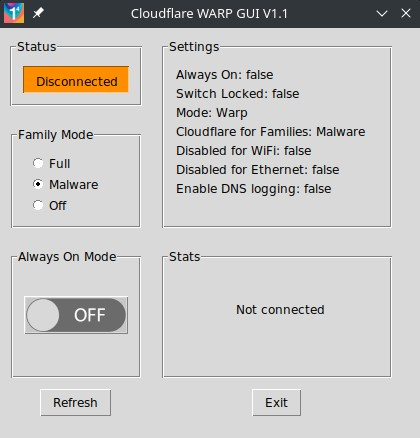
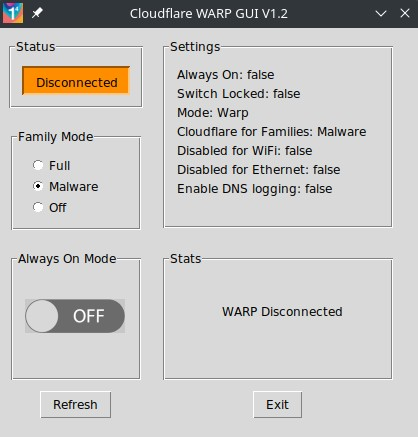
v1.2 see README notes

diff --git a/warp-cli-gui.py b/warp-cli-gui.py
@@ -5,8 +5,8 @@ Description: Python GUI program that will interact with the Linux command line t
 
 Prequisites:
 - Linux OS (tested on Manjaro Linux)
-- Python 3 with pillow library
-- warp-svc running as daemon
+- Python 3 with pillow library (if not running binary)
+- warp-svc running as system daemon (see README notes)
 - warp-cli for Linux installed (instructions at https://developers.cloudflare.com/warp-client/get-started/linux)
 
 License: GPL-3.0
@@ -33,9 +33,10 @@ Versions:
 - V0.5 31 Dec 2021 Cloudflare Warp logo added, connect status button colours changed (thanks to my wife Chantel for helping with this), family mode radio button defaults to existing setting, stats auto refresh every 2 secs after Refresh button pressed
 - V1.0 31 Dec 2021 First stable version with just README file updated
 - V1.1 1 Jan 2022 Tidied up button press color, optimized some code, added Always On toggle setting
+- V1.2 2 Jan 2022 Removed border around toggle button, auto-refresh of stats every 2 secs when connected, optimized function naming, checks lost network connection
+
 
 TODO: - Option to switch WARP modes
-TODO: - Testing auto-refresh with 2 sec interval - optional refresh in seconds
 TODO: - Maybe graphs where relevant eg. latency
 TODO: - Can it show connect status on panel when minimized? Qt can.
 """
@@ -50,11 +51,10 @@ from tkinter import messagebox
 import sys
 # To execute external CLI commands to read status and change settings
 import subprocess
-import time
 
 
 # Set global variable to test during execution
-version = "V1.1"
+version = "V1.2"
 connected = True
 update_interval = 2000 # Milliseconds
 
@@ -122,11 +122,11 @@ def family_clicked(value):
     # Execute the set-families-mode change using value brought over from radio button press
     # Todo = test result for valid execution
     result = (subprocess.run(['warp-cli', 'set-families-mode', value], capture_output=True, text=True)).stdout
-    # Refresh settings frame as value may have changed
-    refresh_settings()
+    # Refresh settings frame as value may have changed with click
+    get_settings()
 
 
-def update_conn_status():
+def get_conn_status():
     # Check if warp-cli connection is connected by running status command, and format returned text, and set connect status variable
     # Use globally defined connected variable
     global connected
@@ -135,31 +135,34 @@ def update_conn_status():
     # Extract part where "b'Status update: Connected'"" or "b'Status update: Connected'"" should appear and set warp_connected to that
     # "b'Success'" or "b'Status update: Connecting'" are also possible, but if returned, then retest again by recalling function
     warp_connected = str(warp_connected[1])
-    
     if warp_connected == "b'Status update: Connected'":
         connected = True
     elif warp_connected == "b'Status update: Disconnected'":
         connected = False
+    elif warp_connected == "b'Status update: No network'":
+        connected = False
+        messagebox.showerror("Error", "No Network Connection!")
+        sys.exit()
     else:
         # Means any of the two sought status' were not returned yet, so retry
-        update_conn_status()
+        get_conn_status()
 
     # Debug Condition to check extracted text
     #print("|" + warp_connected + "|")
 
 
-def connect_clicked():
+def toggle_connect():
     if connected:
         # Run command to disconnect and result should be 'Success' as result[0]
         result = (subprocess.run(['warp-cli', 'disconnect'], capture_output=True, text=True)).stdout
     else:
         # Run command to connect and result should be 'Success' as result[0]
         result = (subprocess.run(['warp-cli', 'connect'], capture_output=True, text=True)).stdout
-    # Now refresh
+    # Now check and fresh status
     refresh_all()
 
 
-def refresh_settings():
+def get_settings():
     global family_mode_status
     global always_connected
     # Clear any previous widgets displays before displaying new data
@@ -182,29 +185,22 @@ def refresh_settings():
     elif str(warp_settings_aon) == "b'Always On: true'":
         always_connected = True
     else:
-        # Pause 0.5 sec and retry as no valid option returned yet
-        time.sleep(0.5)
-        refresh_settings()
+        # Pause 500 msec and retry as no valid option returned yet
+        root.after(500, get_settings)
 
     # Define labels and display in frame for above settings
     warp_settings_aon_lbl = Label(frame_settings, text=warp_settings_aon)
     warp_settings_aon_lbl.grid(row=0, column=0, sticky=W)
-
     warp_settings_switch_lbl = Label(frame_settings, text=warp_settings_switch)
     warp_settings_switch_lbl.grid(row=1, column=0, sticky=W)
-
     warp_settings_mode_lbl = Label(frame_settings, text=warp_settings_mode)
     warp_settings_mode_lbl.grid(row=2, column=0, sticky=W)
-
     warp_settings_family_lbl = Label(frame_settings, text= warp_settings_family)
     warp_settings_family_lbl.grid(row=3, column=0, sticky=W)
-
     warp_settings_wifi_lbl = Label(frame_settings, text=warp_settings_wifi)
     warp_settings_wifi_lbl.grid(row=4, column=0, sticky=W)
-
     warp_settings_eth_lbl = Label(frame_settings, text=warp_settings_eth)
     warp_settings_eth_lbl.grid(row=5, column=0, sticky=W)
-
     warp_settings_dns_lbl = Label(frame_settings, text=warp_settings_dns)
     warp_settings_dns_lbl.grid(row=6, column=0, sticky=W)
 
@@ -218,18 +214,23 @@ def refresh_stats():
     if connected:
         # Check and read output of stats into a list, every line split into new list item, displayed in frame
         warp_stats = ((subprocess.run(['warp-cli', 'warp-stats'], capture_output=True)).stdout).splitlines()
-        warp_stats_time = warp_stats[1]
-        warp_stats_data = warp_stats[2]
-        warp_stats_latency = warp_stats[3]
-        warp_stats_loss = warp_stats[4]
-    
-        # Define labels and display in frame for above settings
-        warp_stats_time_lbl = Label(frame_stats, text=warp_stats_time).grid(row=0, column=0, sticky=W)
-        warp_stats_data_lbl = Label(frame_stats, text=warp_stats_data).grid(row=1, column=0, sticky=W)
-        warp_stats_latency_lbl = Label(frame_stats, text=warp_stats_latency).grid(row=2, column=0, sticky=W)
-        warp_stats_loss_lbl = Label(frame_stats, text=warp_stats_loss).grid(row=3, column=0, sticky=W)
+        # Check for lost network connection
+        if str(warp_stats[0]) != "b'Error: WARP is not connected.'":
+            warp_stats_time = warp_stats[1]
+            warp_stats_data = warp_stats[2]
+            warp_stats_latency = warp_stats[3]
+            warp_stats_loss = warp_stats[4]
+        
+            # Define labels and display in frame for above settings
+            warp_stats_time_lbl = Label(frame_stats, text=warp_stats_time).grid(row=0, column=0, sticky=W)
+            warp_stats_data_lbl = Label(frame_stats, text=warp_stats_data).grid(row=1, column=0, sticky=W)
+            warp_stats_latency_lbl = Label(frame_stats, text=warp_stats_latency).grid(row=2, column=0, sticky=W)
+            warp_stats_loss_lbl = Label(frame_stats, text=warp_stats_loss).grid(row=3, column=0, sticky=W)
+        else:
+            warp_stats_noconnect_lbl = Label(frame_stats, text="Network lost?").grid(padx=50, pady=25)
+            get_conn_status()
     else:
-        warp_stats_noconnect_lbl = Label(frame_stats, text="Not connected").grid(padx=60, pady=25)
+        warp_stats_noconnect_lbl = Label(frame_stats, text="WARP Disconnected").grid(padx=45, pady=25)
 
 def toggle_aon():
     global always_connected
@@ -239,33 +240,33 @@ def toggle_aon():
     else:
         # Run command to toggle to always connected on
         result = (subprocess.run(['warp-cli', 'enable-always-on'], capture_output=True, text=True)).stdout
-    refresh_settings()  # Will retrieve changed always_connected settings from CLI
-    display_aon()
+    refresh_all()
 
 def display_aon():
     global toggle_off, toggle_on
     global always_connected
     if always_connected:
         # ALWAYS CONNECTED toggle button to AON frame
-        always_conn_btn = Button(frame_aon, image = toggle_on, command=toggle_aon)
+        always_conn_btn = Button(frame_aon, image = toggle_on, command=toggle_aon, borderwidth=0, bg=root['bg'], activebackground=root['bg'])        
     else:
         # ALWAYS CONNECTED toggle button to AON frame
-        always_conn_btn = Button(frame_aon, image = toggle_off, command=toggle_aon)
+        always_conn_btn = Button(frame_aon, image = toggle_off, command=toggle_aon, borderwidth=0)
     always_conn_btn.grid(row=0, column=0, pady=20)
 
+
 def display_connect_btn():
-    # Add CONNECT BUTTON to Status frame with text description and colour
+    # Add CONNECT BUTTON to Status frame with text description and colours
     if connected:
-        myConnect_Btn = Button(frame_status, text=" Connected ", width=10, bg="#76a633", activebackground="#76a633", relief=RAISED, command=connect_clicked)
+        myConnect_Btn = Button(frame_status, text=" Connected ", width=10, bg="#76a633", activebackground="#76a633", borderwidth=2, relief=RAISED, command=toggle_connect)
     else:
-        myConnect_Btn = Button(frame_status, text="Disconnected", width=10, bg="#ff8d00", activebackground="#ff8d00", relief=SUNKEN, command=connect_clicked)
+        myConnect_Btn = Button(frame_status, text="Disconnected", width=10, bg="#ff8d00", activebackground="#ff8d00", borderwidth=2, relief=SUNKEN, command=toggle_connect)
     myConnect_Btn.grid(row=0, column=0)
 
 
 def refresh_all():
-    update_conn_status()
+    get_conn_status()
     display_connect_btn()
-    refresh_settings()
+    get_settings()
     refresh_stats()
     display_aon()
     # Start auto refresh stats function (only after refresh button pressed)
@@ -280,11 +281,12 @@ def auto_refresh_stats():
 
 
 # Main program starts here
-update_conn_status()
+get_conn_status()
 display_connect_btn()
-refresh_settings()
+get_settings()
 display_aon()
 refresh_stats()
+auto_refresh_stats()
 
 
 

diff --git a/README.md b/README.md
@@ -5,29 +5,34 @@
 
 ![Screenshot Disconnected](assets/screenshot_disconnected.jpg)
 
+![Screenshot Lost Network](assets/screenshot_nonetwork.jpg)
+
 [![Short Video](https://img.youtube.com/vi/MtlUrAmhWzI/0.jpg)](https://www.youtube.com/watch?v=MtlUrAmhWzI)
 
 ## Description
-<p>Python GUI program that will interact with the Linux command line to check status, and change basic settings, for Cloudflare WARP CLI.</p>
+<p>This is a Python GUI program that will interact with the Linux command line to check status, and change basic settings, for Cloudflare WARP CLI. The program does not store any data of its own, nor does it interfere or monitor the VPN in any way.</p>
+
+<p>When started the program will check all warp-cli status and settings, and display in the frames. Auto-updating of the stats will happen automatically every 2 seconds while warp-cli is connected. To prevent overtaxing system resources the program is not doing a full scan of everything, so if changes are made manually at the command line while it is running then press the refresh button to refresh the settings as well in the program. Changes made within the program will update everything accordingly though.</p>
+
+<p>While the program is refreshing stats it will check for WARP being disconnected, or the network disconnecting, and display relevant warnings.</p>
 
 ## Requirements and Execution
-- Linux OS (tested on Manjaro Linux)
-- warp-svc running as daemon by running either 'sudo systemctl start warp-svc' for once off, or 'sudo systemctl enable warp-svc' for boot time activation (should have been installed with warp-cli)
-- warp-cli for Linux installed, and the once-off registration done by running 'warp-cli register' (instructions at https://developers.cloudflare.com/warp-client/get-started/linux)
+- Linux OS (tested on Manjaro Linux but should work on other distros).
+- warp-svc running as a system daemon by the user executing either 'sudo systemctl start warp-svc' for once off, or 'sudo systemctl enable warp-svc' for boot time activation (should have been installed with warp-cli).
+- warp-cli for Linux installed, and the once-off registration done by the user running 'warp-cli register' (instructions at https://developers.cloudflare.com/warp-client/get-started/linux)
 - Two options to run this app:
   - Python 3 with pillow library, already installed: Copy the [warp-cli-gui.py, warp_logo.png, off.png, off.png] source files into a single folder, and execute with 'python warp-cli-gui.py'. For ease of use you can add this command, and the working directory, to a new menu item on Linux.
-  - As a Linux binary executable (no Python required): Download the binary release from Github into any directory location on your computer, ensure the warp-cli-gui file has execute permissions, then execute with './warp-cli-gui' from that directory.
+  - As a Linux binary executable (no Python required): Download the binary release files from Github into any directory location on your computer, ensure the warp-cli-gui file has execute permissions, then execute with './warp-cli-gui' from that directory.
 
 ## Functionality
 - Status button toggles connect / disconnect from WARP
 - Family mode can be toggled between Full, Malware, Off
 - Always On status can be toggled
 - Current WARP settings displayed, and refreshed if changed (or press refresh button)
-- Current WARP stats displayed and will refresh automatically every 2 seconds after the refresh button has been pressed
+- Current WARP stats displayed and will refresh automatically every 2 seconds
 
 ## Todo's on the Road Map
 - Option to switch WARP modes
-- Testing auto-refresh of stats frame with 2 sec interval - consider optional refresh in seconds or disable
 - Maybe graphs where relevant eg. latency
 - Can it show connect status on panel when minimized (Qt can)?
 
@@ -42,6 +47,7 @@ See my video about the initial creation of this app at https://youtu.be/hhPhiV0o
 - V0.5 31 Dec 2021 Cloudflare Warp logo added, connect status button colours changed (thanks to my wife Chantel for helping with this), family mode radio button defaults to existing setting, stats auto refresh every 2 secs after Refresh button pressed
 - V1.0 31 Dec 2021 First stable version with just README file updated. Binary for Linux added as a release.
 - V1.1 1 Jan 2022 Tidied up button press color, optimized some code, added Always On toggle setting
+- V1.2 2 Jan 2022 Removed border around toggle button, auto-refresh of stats every 2 secs when connected, optimized function naming, checks lost network connection
 
 ## License
 This software is available under the GPL-3.0. You should have received a copy of the GNU General Public License along with this program.  If not, see <http://www.gnu.org/licenses/> for more info.
